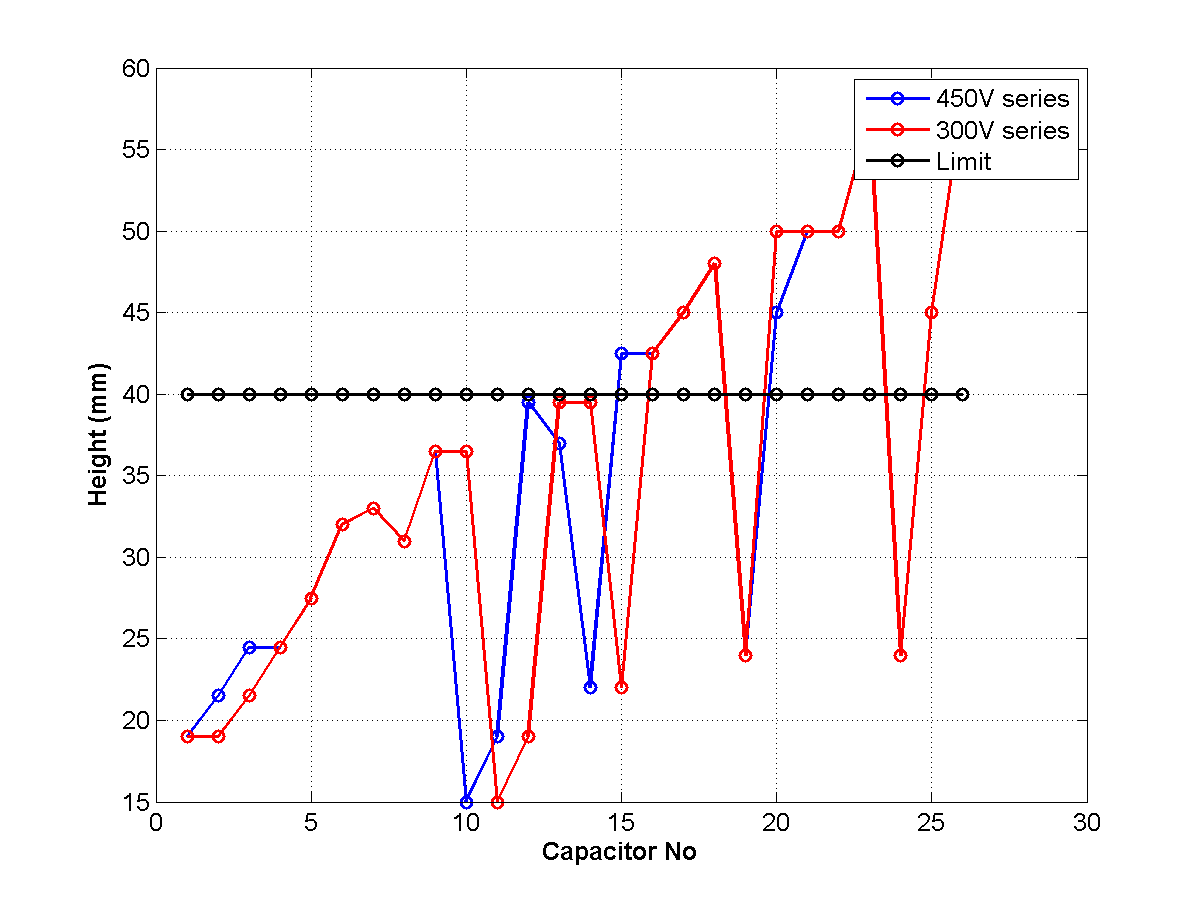
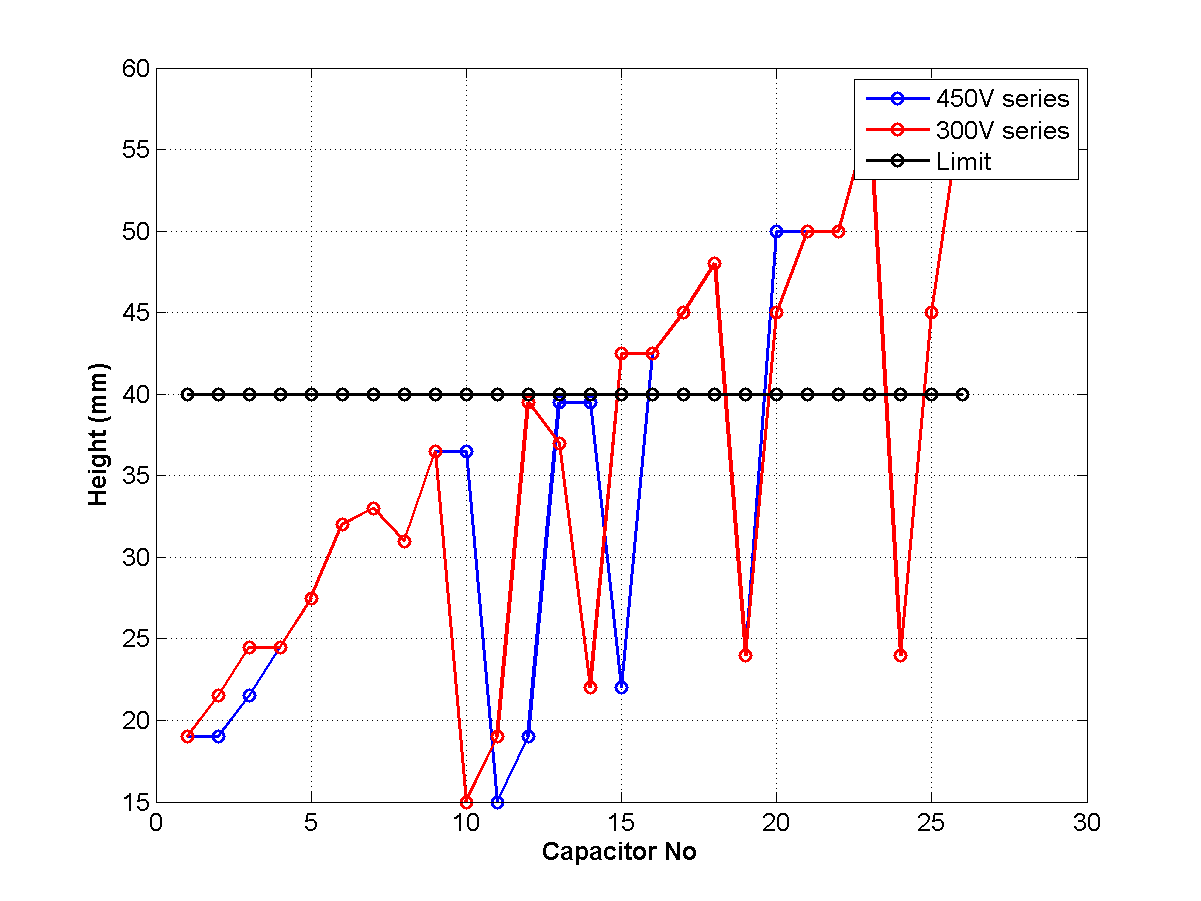
Algorithm continue. Cost will be added.

diff --git a/simulation/immd_capacitor_rms_current.m b/simulation/immd_capacitor_rms_current.m
@@ -165,17 +165,17 @@ end
 % There is no dependency for Iacrms on temperature before 70C ambient
 % temperature
 
-ESR_450 = fpc_450v(:,6)*1e-3; % Ohm
-ESR_300 = fpc_300v(:,6)*1e-3; % Ohm
+ESR_450 = fpc_450v(:,6)*1e-3./parallel_450(1,:)'; % Ohm
+ESR_300 = 2*fpc_300v(:,6)*1e-3./parallel_300(1,:)'; % Ohm
 thermal_res_300 = fpc_300v(:,11); % mW/C
 thermal_res_450 = fpc_450v(:,11); % mW/C
 lead_space_300 = fpc_300v(:,12); % mW/C
 lead_space_450 = fpc_450v(:,12); % mW/C
 
 Ploss_450 = required_rmscurrent^2.*ESR_450; % W
-Tcore_450 = thermal_res_450.*Ploss_450+Tambient; % C
+Tcore_450 = thermal_res_450.*Ploss_450./parallel_450'+Tambient; % C
 Ploss_300 = required_rmscurrent^2.*ESR_300; % W
-Tcore_300 = thermal_res_300.*Ploss_300+Tambient; % C
+Tcore_300 = thermal_res_300.*Ploss_300./(2*parallel_300')+Tambient; % C
 
 for m = 1:numel(cap_select)
     if Tcore_450(m) > temp_max
@@ -194,9 +194,9 @@ end
 num = numel(cap_select);
 power_density_limit = power_density_min*ones(1,num);
 fig = figure;
-plot(cap_select,power_density_300,'bo-','Linewidth',1.5);
+plot(cap_select,power_density_450,'bo-','Linewidth',1.5);
 hold on;
-plot(cap_select,power_density_450,'ro-','Linewidth',1.5);
+plot(cap_select,power_density_300,'ro-','Linewidth',1.5);
 hold on;
 plot(cap_select,power_density_limit,'ko-','Linewidth',1.5);
 hold off;
@@ -210,9 +210,9 @@ print(fig,'powerdensity','-dpng')
 % Temperature
 temperature_limit = temp_max*ones(1,num);
 fig = figure;
-plot(cap_select,Tcore_300,'bo-','Linewidth',1.5);
+plot(cap_select,Tcore_450,'bo-','Linewidth',1.5);
 hold on;
-plot(cap_select,Tcore_450,'ro-','Linewidth',1.5);
+plot(cap_select,Tcore_300,'ro-','Linewidth',1.5);
 hold on;
 plot(cap_select,temperature_limit,'ko-','Linewidth',1.5);
 hold off;
@@ -226,9 +226,9 @@ print(fig,'temperature','-dpng')
 % Height
 height_limit = height_max*ones(1,num);
 fig = figure;
-plot(cap_select,height_300,'bo-','Linewidth',1.5);
+plot(cap_select,height_450,'bo-','Linewidth',1.5);
 hold on;
-plot(cap_select,height_450,'ro-','Linewidth',1.5);
+plot(cap_select,height_300,'ro-','Linewidth',1.5);
 hold on;
 plot(cap_select,height_limit,'ko-','Linewidth',1.5);
 hold off;
@@ -241,13 +241,63 @@ print(fig,'height','-dpng')
 
 
 %%
-% Give weights to the constraints
+% Give weights to the constraints and check overall performance
 
+% Overall performance - 1
 weight_pd = 0.4;
 weight_h = 0.3;
 weight_t = 0.3;
+overall_300 = weight_pd*power_density_300/10 + weight_h./(height_300/40) + weight_t./(Tcore_300/45);
+overall_450 = weight_pd*power_density_450/10 + weight_h./(height_450/40) + weight_t./(Tcore_450/45);
+fig = figure;
+plot(cap_select,overall_450,'bo-','Linewidth',1.5);
+hold on;
+plot(cap_select,overall_300,'ro-','Linewidth',1.5);
+hold off;
+grid on;
+set(gca,'FontSize',12);
+xlabel('Capacitor No','FontSize',12,'FontWeight','Bold')
+ylabel('Overall performance (pd=0.4,h=0.3,t=0.3)','FontSize',12,'FontWeight','Bold')
+legend('450V series','300V series')
+print(fig,'overall-1','-dpng')
 
-overall_300 = weight_pd*power_density_300/10 + weight_h./(height_300/40) + weight_temp./(T)
+% Overall performance - 2
+weight_pd = 0.5;
+weight_h = 0.2;
+weight_t = 0.3;
+overall_300 = weight_pd*power_density_300/10 + weight_h./(height_300/40) + weight_t./(Tcore_300/45);
+overall_450 = weight_pd*power_density_450/10 + weight_h./(height_450/40) + weight_t./(Tcore_450/45);
+fig = figure;
+plot(cap_select,overall_450,'bo-','Linewidth',1.5);
+hold on;
+plot(cap_select,overall_300,'ro-','Linewidth',1.5);
+hold off;
+grid on;
+set(gca,'FontSize',12);
+xlabel('Capacitor No','FontSize',12,'FontWeight','Bold')
+ylabel('Overall performance (pd=0.5,h=0.2,t=0.3)','FontSize',12,'FontWeight','Bold')
+legend('450V series','300V series')
+print(fig,'overall-2','-dpng')
+
+% Overall performance - 3
+weight_pd = 0.4;
+weight_h = 0.2;
+weight_t = 0.4;
+overall_300 = weight_pd*power_density_300/10 + weight_h./(height_300/40) + weight_t./(Tcore_300/45);
+overall_450 = weight_pd*power_density_450/10 + weight_h./(height_450/40) + weight_t./(Tcore_450/45);
+fig = figure;
+plot(cap_select,overall_450,'bo-','Linewidth',1.5);
+hold on;
+plot(cap_select,overall_300,'ro-','Linewidth',1.5);
+hold off;
+grid on;
+set(gca,'FontSize',12);
+xlabel('Capacitor No','FontSize',12,'FontWeight','Bold')
+ylabel('Overall performance (pd=0.4,h=0.2,t=0.4)','FontSize',12,'FontWeight','Bold')
+legend('450V series','300V series')
+print(fig,'overall-3','-dpng')
+
+
 
 %% BELOW ARE OBSOLETE, WILL BE CHECKED LATER
 
